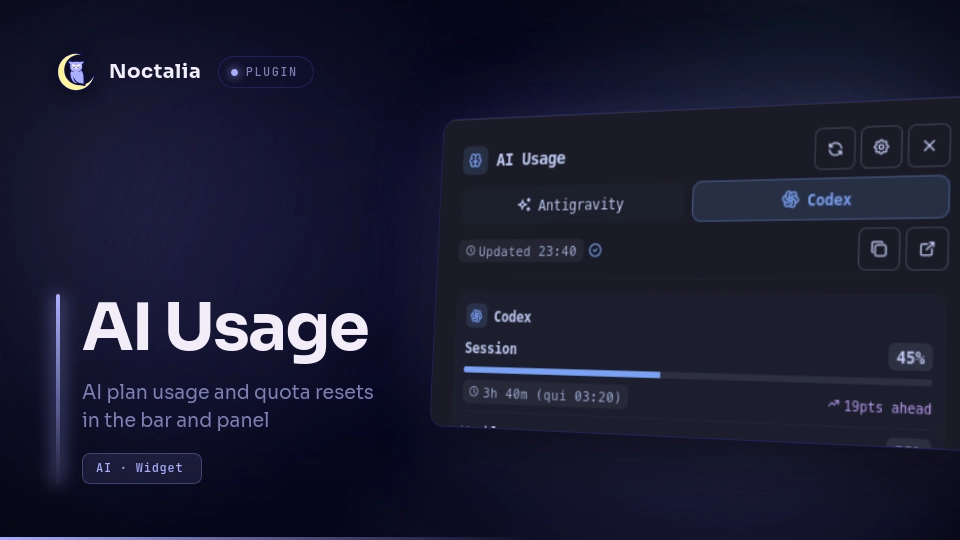
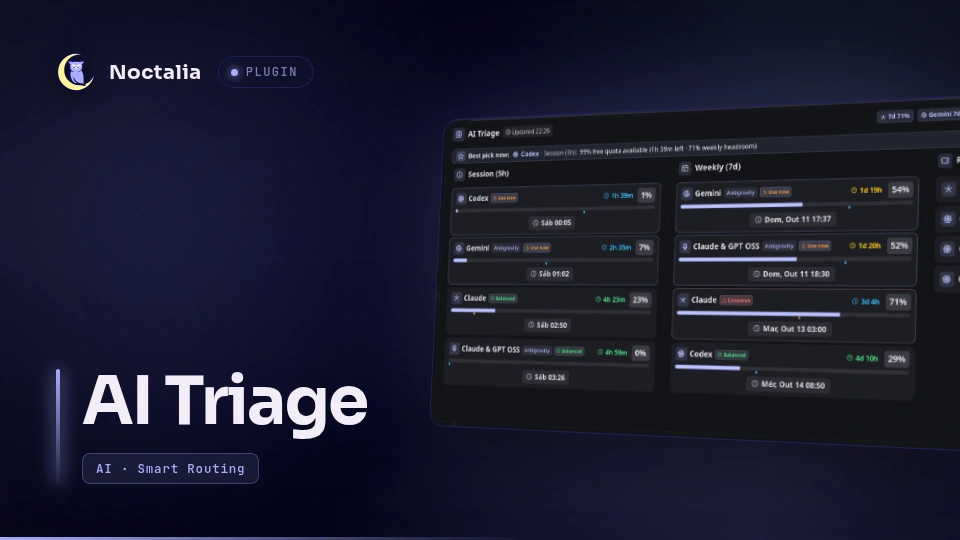
fix: address review feedback with distinct thumbnail and robust kickstart error handling
- Generate distinct AI Triage thumbnail using official Noctalia template depicting live dashboard
- Handle runAsync launch rejection and failure in kickstartWindow without retaining busy state
- Surface failed kickstarts, exit non-zero on backend errors, and document optional CLI tools (claude, codex, agy)
- Add unit test scenario for kickstart launch recovery

diff --git a/README.md b/README.md
@@ -24,8 +24,12 @@ with `xdg-open`. Install `xdg-open` alongside `ai-usagebar`.
 
 The plugin requires Noctalia plugin API 22 for `require()`.
 
-For the interactive rolling session kickstart feature, ensure `bin/ai-kickstart` is
-accessible or placed on your PATH (e.g. `~/.local/bin/ai-kickstart`).
+For the interactive rolling session kickstart feature (`[⚡ Start 5h]`), ensure `bin/ai-kickstart` is
+accessible or placed on your PATH (e.g. `~/.local/bin/ai-kickstart`). The helper triggers rolling sessions via provider-specific CLI tools:
+- `claude` (Anthropic Claude Code CLI) for Claude
+- `codex` (OpenAI Codex CLI) for Codex
+- `agy` (Antigravity CLI) for Gemini and Claude & GPT OSS
+Install the respective CLI for any backend provider you wish to prime.
 
 ## Features
 
